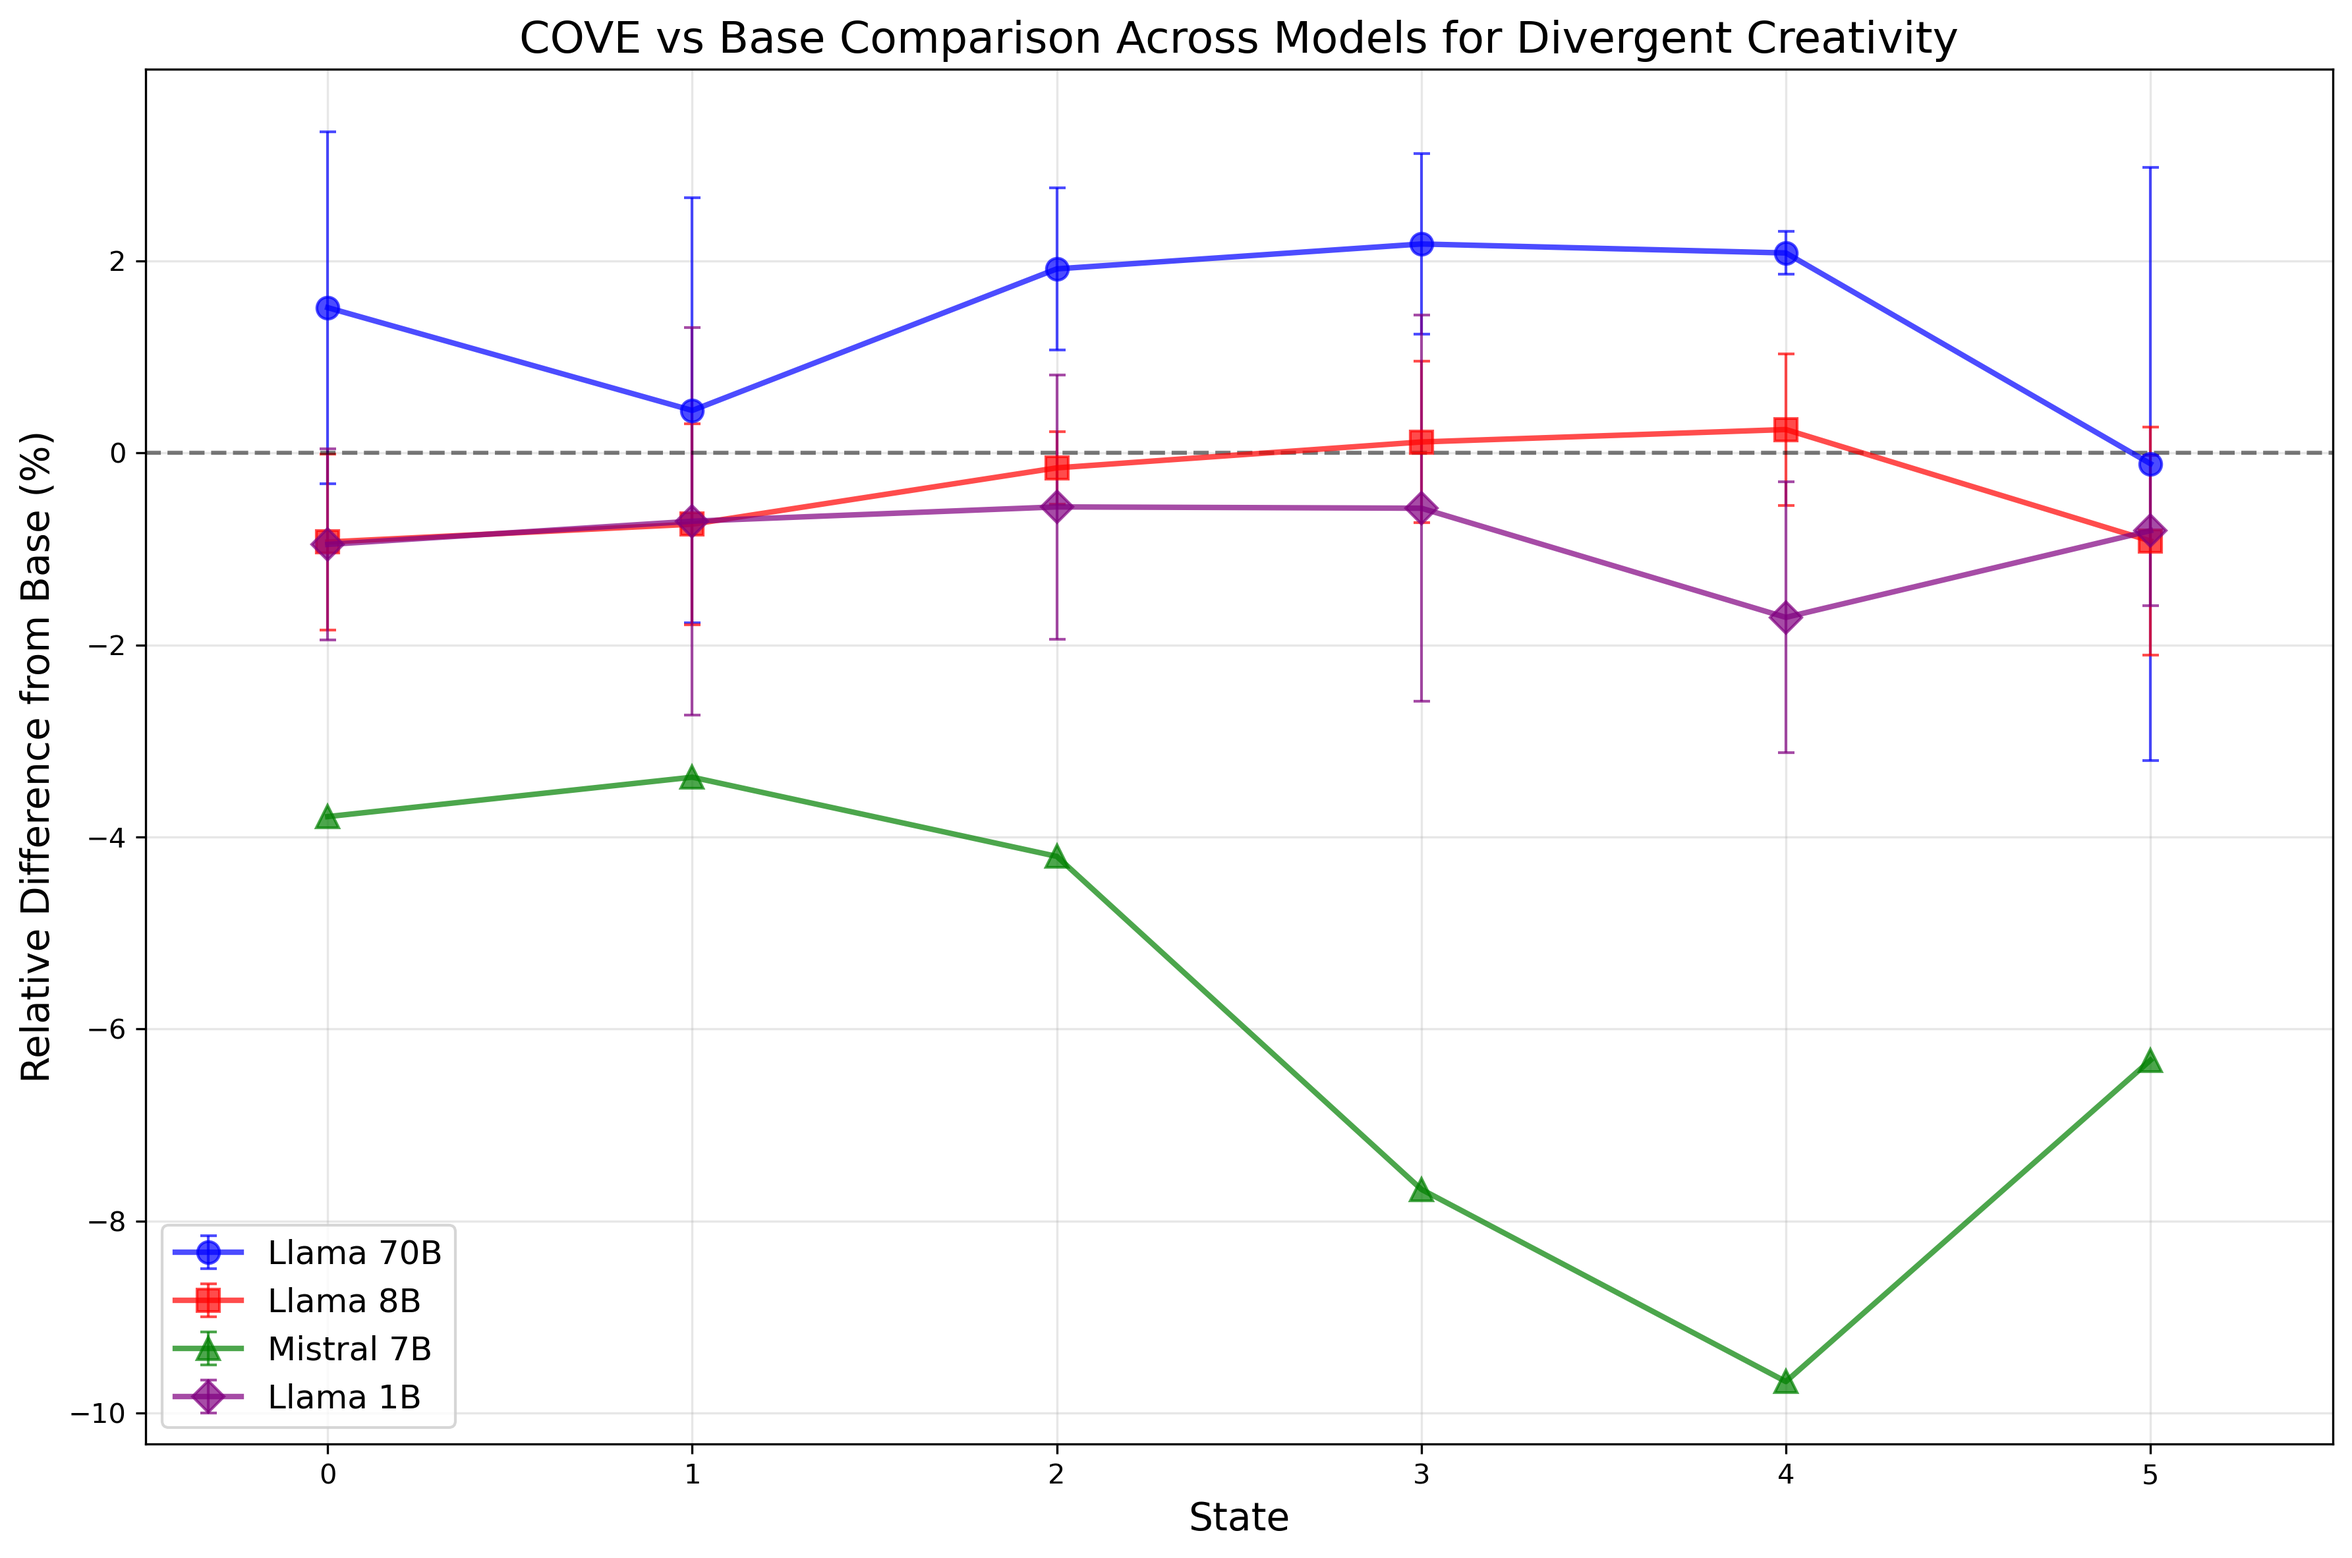
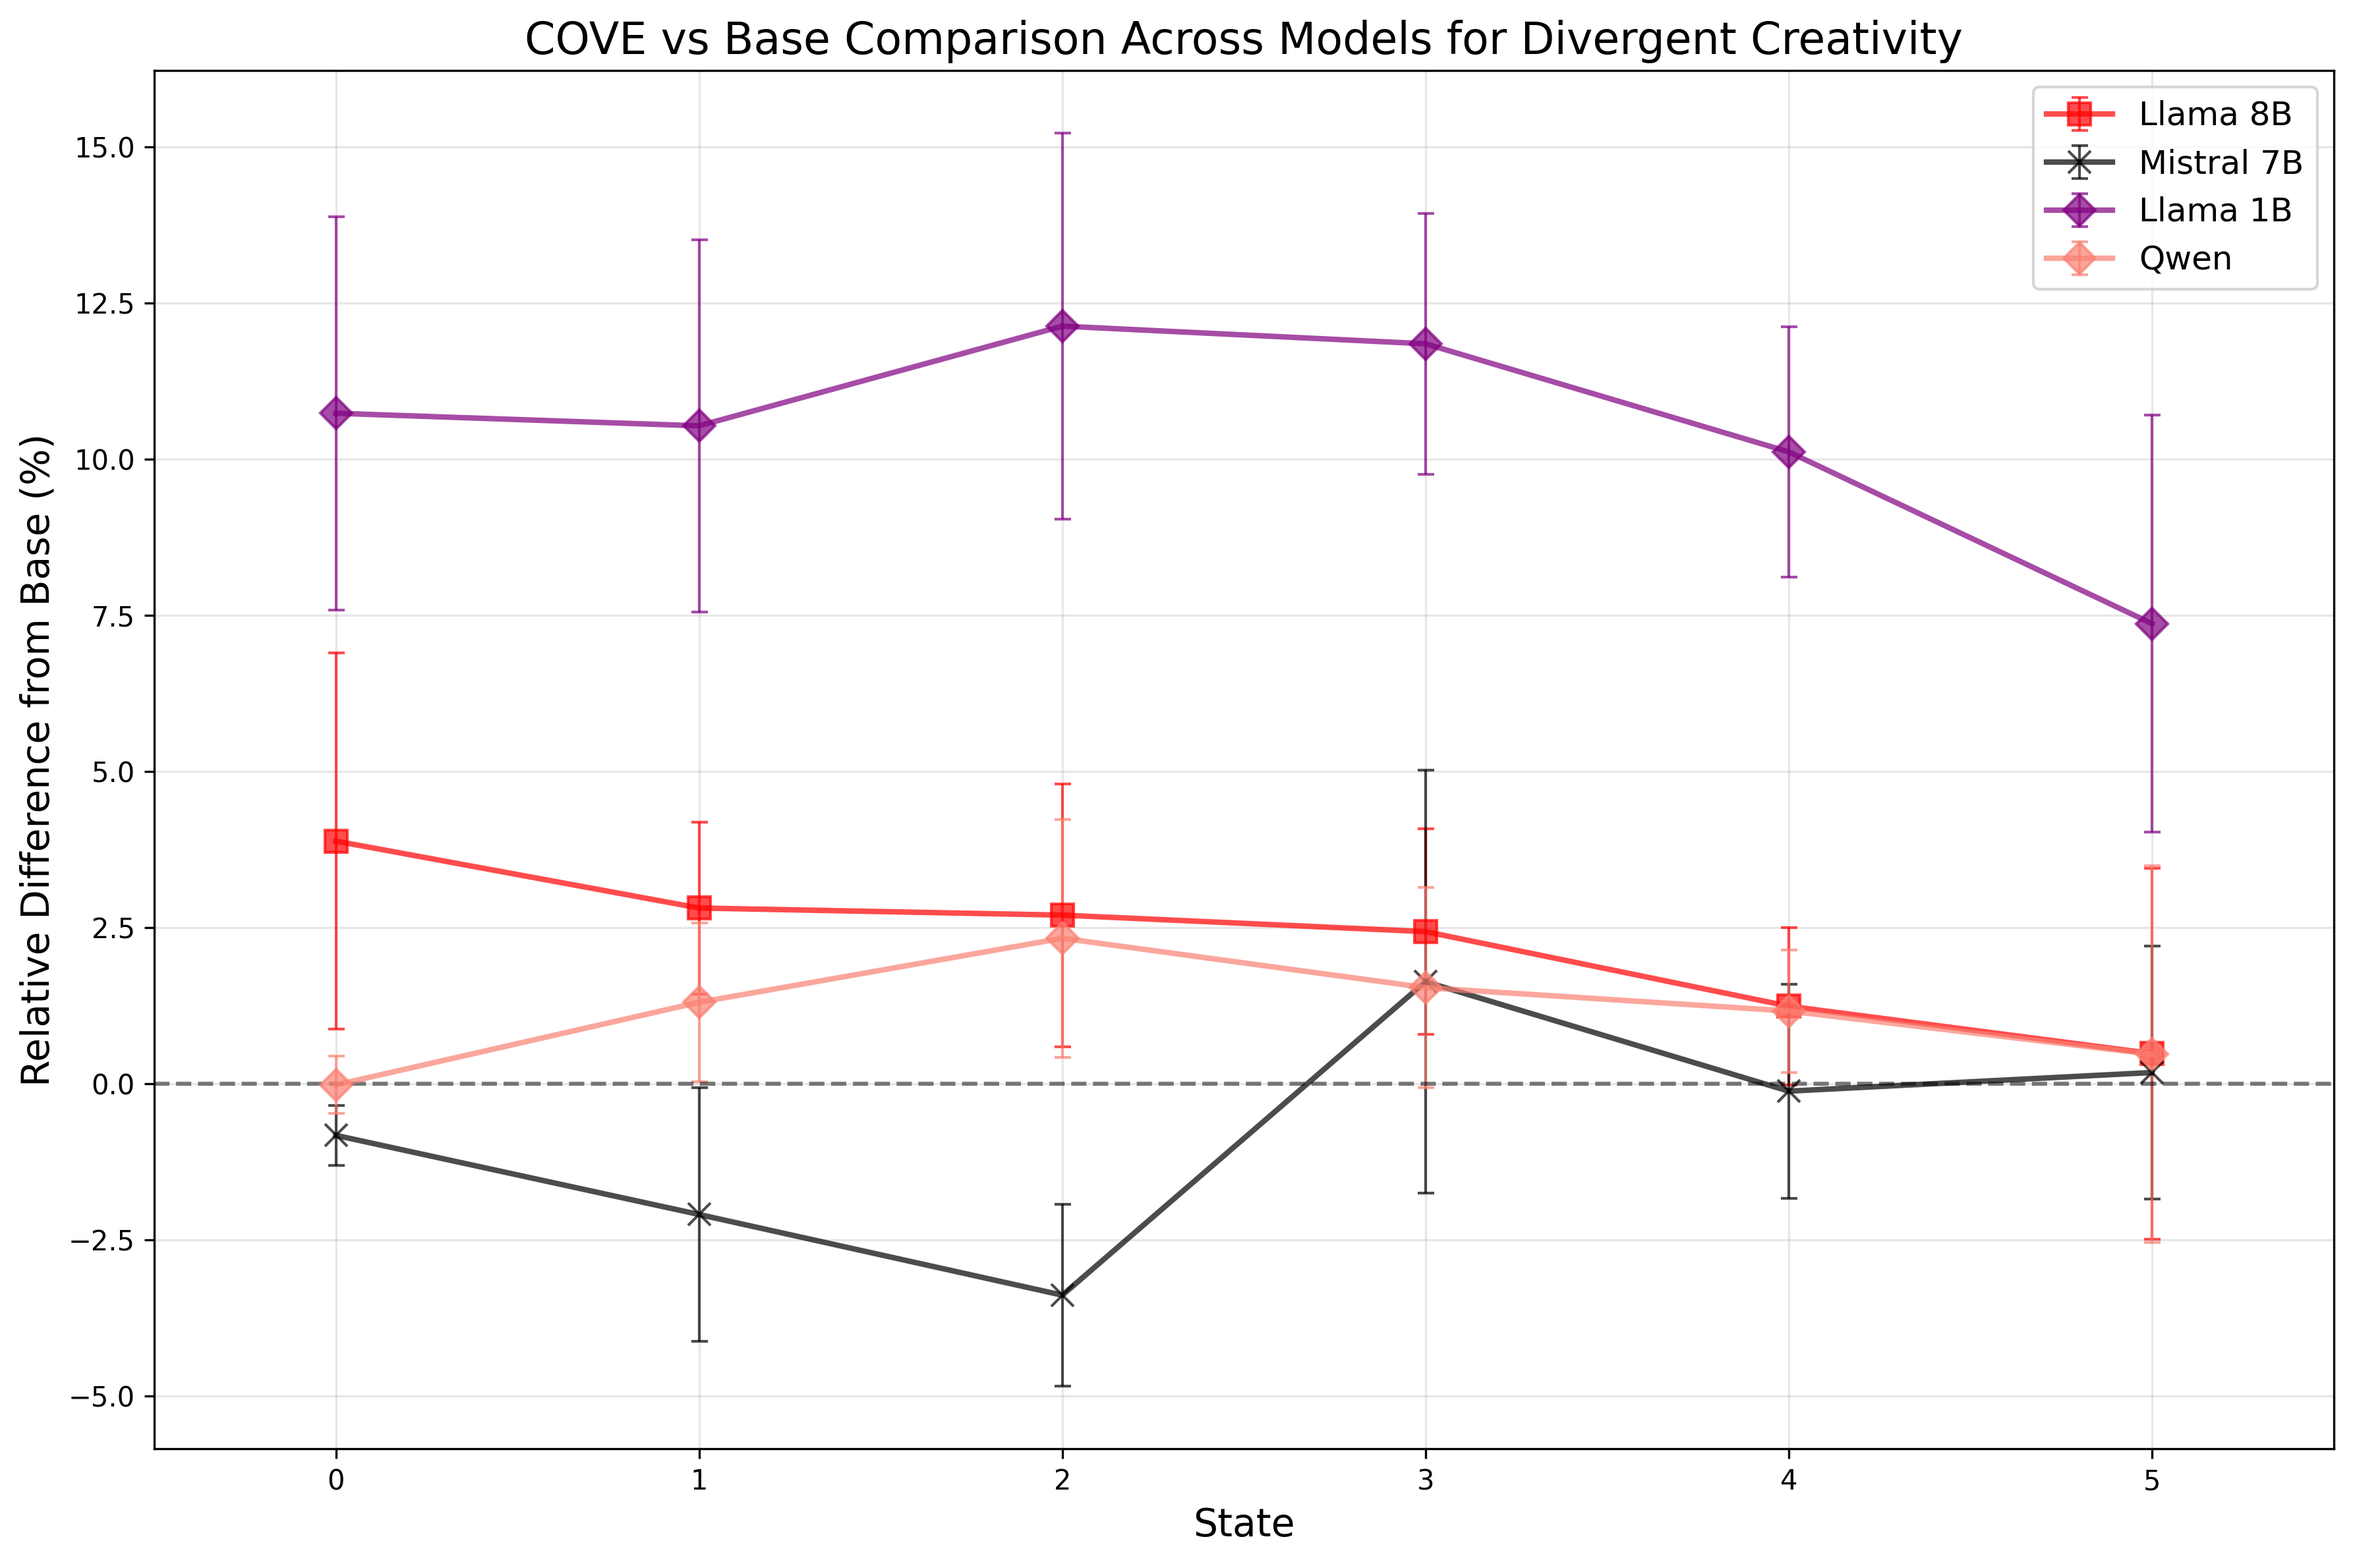
more changes

diff --git a/plots/compare_abs.py b/plots/compare_abs.py
@@ -8,7 +8,7 @@ import glob
 def load_summary_files(base_path):
     """Load all summary.json files from the given directory structure."""
     model_data = {}
-    model_folders = ['Llama70B', 'Llama8B', 'Mistral7B', 'Llama1B']
+    model_folders = ['Llama8B', 'Ali2']
     
     print(f"Looking for model folders in: {os.path.abspath(base_path)}")
     
@@ -179,10 +179,13 @@ def create_comparison_plot(processed_data, plot, method, output_file=None):
     model_styles = {
         'Llama70B': {'color': 'blue', 'marker': 'o', 'label': 'Llama 70B'},
         'Llama8B': {'color': 'red', 'marker': 's', 'label': 'Llama 8B'},
-        'Mistral7B': {'color': 'green', 'marker': '^', 'label': 'Mistral 7B'},
-        'Llama1B': {'color': 'purple', 'marker': 'D', 'label': 'Llama 1B'}
+        'Mistral7B': {'color': 'black', 'marker': 'x', 'label': 'Mistral 7B'},
+        'Llama1B': {'color': 'purple', 'marker': 'D', 'label': 'Llama 1B'},
+        'Llamacode': {'color': 'green', 'marker': '^', 'label': 'Llama-coder'},
+        'Ali2': {'color': 'navy', 'marker': 'o', 'label': 'Ali'},
+        'Qwen': {'color': 'salmon', 'marker': 'D', 'label': 'Qwen'}
     }
-    
+
     # Check if we have any data to plot
     has_data = False
     
@@ -254,10 +257,13 @@ def create_combined_plot(processed_data, plot, output_file=None):
     model_styles = {
         'Llama70B': {'color': 'blue', 'marker': 'o', 'label': 'Llama 70B'},
         'Llama8B': {'color': 'red', 'marker': 's', 'label': 'Llama 8B'},
-        'Mistral7B': {'color': 'green', 'marker': '^', 'label': 'Mistral 7B'},
-        'Llama1B': {'color': 'purple', 'marker': 'D', 'label': 'Llama 1B'}
+        'Mistral7B': {'color': 'black', 'marker': 'x', 'label': 'Mistral 7B'},
+        'Llama1B': {'color': 'purple', 'marker': 'D', 'label': 'Llama 1B'},
+        'Llamacode': {'color': 'green', 'marker': '^', 'label': 'Llama-coder'},
+        'Ali2': {'color': 'navy', 'marker': 'o', 'label': 'Ali-model'},
+        'Qwen': {'color': 'salmon', 'marker': 'D', 'label': 'Qwen'}
     }
-    
+
     # Define line styles for each method
     method_styles = {
         'base': {'linestyle': '-', 'alpha': 0.8},
@@ -322,8 +328,10 @@ def create_combined_plot(processed_data, plot, output_file=None):
 # Main execution
 if __name__ == "__main__":
     # Set the base path where your model folders are located
-    base_path = "datasets/CodeForce/neoresults"  # Adjust this to your actual path
+    base_path = "datasets/CodeForce/neoresults/non-greedy"  # Adjust this to your actual path
     plot = 'total_creativity'
+    folder = 'plots_absolute'
+    
     
     # Load all summary files
     print("Loading summary files...")
@@ -349,12 +357,12 @@ if __name__ == "__main__":
     print("\nCreating plots...")
     
     # Individual method plots
-    create_comparison_plot(processed_data, plot, 'base', f'plots_absolute/{plot}/base_absolute.png')
-    create_comparison_plot(processed_data, plot, 'cove', f'plots_absolute/{plot}/cove_absolute.png')
-    create_comparison_plot(processed_data, plot, 'dola', f'plots_absolute/{plot}/dola_absolute.png')
-    create_comparison_plot(processed_data, plot, 'rag', f'plots_absolute/{plot}/rag_absolute.png')
+    create_comparison_plot(processed_data, plot, 'base', f'plots/{folder}/{plot}/base_absolute.png')
+    create_comparison_plot(processed_data, plot, 'cove', f'plots/{folder}/{plot}/cove_absolute.png')
+    create_comparison_plot(processed_data, plot, 'dola', f'plots/{folder}/{plot}/dola_absolute.png')
+    create_comparison_plot(processed_data, plot, 'rag', f'plots/{folder}/{plot}/rag_absolute.png')
     
     # Combined plot
-    create_combined_plot(processed_data, plot, f'plots_absolute/{plot}/all_methods_combined.png')
+    create_combined_plot(processed_data, plot, f'plots/plots_ali/{plot}/all_methods_combined.png')
     
     print("\nScript completed!")

diff --git a/src/models/model.py b/src/models/model.py
@@ -159,40 +159,44 @@ class OpenAIModel:
     def __init__(self, 
                  model: str,
                  temperature: float = 1,
-                 max_tokens: int = 256,
+                 max_completion_tokens: int = 512,
                  top_p: float = 1,
                  n: int = 1,
-                 gpt_setting: str = None):
+                 gpt_setting: str = None,
+                 reasoning: dict = {'effort': 'minimal'}):
         self.model = model
         self.temperature = temperature
-        self.max_tokens = max_tokens
+        self.max_completion_tokens = max_completion_tokens
         self.top_p = top_p
         self.n = n
         self.gpt_setting = gpt_setting
         self.restart()
         self.client = OpenAI()
+        self.reasoning = reasoning
         
     @backoff.on_exception(backoff.expo, openai.OpenAIError)
     def chatcompletions_with_backoff(self, **kwargs):
-        return self.client.chat.completions.create(**kwargs)
+        return self.client.responses.create(**kwargs)
 
     @backoff.on_exception(backoff.expo, openai.OpenAIError)
     def completions_with_backoff(self, **kwargs):
-        return self.client.completions.create(**kwargs)
+        return self.client.chat.completions.create(**kwargs)
 
     def chatgpt(self) -> list:
         global completion_tokens, prompt_tokens
         outputs = []
         res = self.chatcompletions_with_backoff(model=self.model, 
-                                                messages=self.message, 
+                                                input=self.message, 
                                                 temperature=self.temperature, 
-                                                max_tokens=self.max_tokens, 
-                                                n=self.n,
-                                                top_p=self.top_p)
-        outputs.extend([choice.message.content for choice in res.choices])
+                                                max_output_tokens=self.max_completion_tokens, 
+                                                # n=self.n,
+                                                top_p=self.top_p,
+                                                reasoning=self.reasoning)
+        # outputs.extend([choice.message.content for choice in res.choices])
+        outputs.append(res.output_text)
         # log completion tokens
-        completion_tokens += res.usage.completion_tokens
-        prompt_tokens += res.usage.prompt_tokens
+        completion_tokens += res.usage.output_tokens
+        prompt_tokens += res.usage.input_tokens
         return outputs
 
     def completiongpt(self) -> list:
@@ -201,7 +205,7 @@ class OpenAIModel:
         res = self.completions_with_backoff(model=self.model, 
                                             messages=self.message, 
                                             temperature=self.temperature, 
-                                            max_tokens=self.max_tokens, 
+                                            max_completion_tokens=self.max_completion_tokens, 
                                             n=self.n, 
                                             top_p=self.top_p)
         outputs.extend([choice.text for choice in res.choices])
@@ -221,6 +225,8 @@ class OpenAIModel:
             cost = completion_tokens / 1000 * 0.002 + prompt_tokens / 1000 * 0.0015
         elif "davinci" in model:
             cost = completion_tokens / 1000 * 0.02 + prompt_tokens / 1000 * 0.02
+        elif "gpt-5-mini" in model:
+            cost = completion_tokens / 1000 * 0.002 + prompt_tokens / 1000 * 0.00025
         return {"completion_tokens": completion_tokens, "prompt_tokens": prompt_tokens, "cost": cost}
 
     def __call__(self, input: str) -> list:

diff --git a/plots/compare_hal.py b/plots/compare_hal.py
@@ -8,7 +8,7 @@ import glob
 def load_summary_files(base_path):
     """Load all summary.json files from the given directory structure."""
     model_data = {}
-    model_folders = ['Llama70B', 'Llama8B', 'Llama1B']
+    model_folders = ['Llama70B', 'Llama8B', 'Llama1B', 'Mistral7B', 'Ali2', 'Qwen']
     
     print(f"Looking for model folders in: {os.path.abspath(base_path)}")
     
@@ -202,8 +202,11 @@ def create_comparison_plot(processed_data, plot, method, output_file=None):
     model_styles = {
         'Llama70B': {'color': 'blue', 'marker': 'o', 'label': 'Llama 70B'},
         'Llama8B': {'color': 'red', 'marker': 's', 'label': 'Llama 8B'},
-        'Mistral7B': {'color': 'green', 'marker': '^', 'label': 'Mistral 7B'},
-        'Llama1B': {'color': 'purple', 'marker': 'D', 'label': 'Llama 1B'}  # Added Llama1B
+        'Mistral7B': {'color': 'black', 'marker': 'x', 'label': 'Mistral 7B'},
+        'Llama1B': {'color': 'purple', 'marker': 'D', 'label': 'Llama 1B'},
+        'Llamacode': {'color': 'green', 'marker': '^', 'label': 'Llama-coder'},
+        'Ali2': {'color': 'navy', 'marker': 'o', 'label': 'Ali-model'},
+        'Qwen': {'color': 'salmon', 'marker': 'D', 'label': 'Qwen'}
     }
     
     # Check if we have any data to plot
@@ -271,8 +274,8 @@ def create_comparison_plot(processed_data, plot, method, output_file=None):
 # Main execution
 if __name__ == "__main__":
     # Set the base path where your model folders are located
-    base_path = "datasets/CodeForce/neoresults"  # Adjust this to your actual path
-    plot = 'instruction_hallucination'
+    base_path = "datasets/CodeForce/neoresults/non-greedy"  # Adjust this to your actual path
+    plot = 'total_creativity'
     
     # Load all summary files
     print("Loading summary files...")
@@ -298,12 +301,12 @@ if __name__ == "__main__":
     print("\nCreating plots...")
     
     # CoVe plot
-    create_comparison_plot(processed_data, plot, 'cove', f'plots/plots_llamas/{plot}/cove_comparison.png')
+    create_comparison_plot(processed_data, plot, 'cove', f'plots/all_plots/{plot}/cove_comparison.png')
     
     # DoLa plot
-    create_comparison_plot(processed_data, plot, 'dola', f'plots/plots_llamas/{plot}/dola_comparison.png')
+    create_comparison_plot(processed_data, plot, 'dola', f'plots/all_plots/{plot}/dola_comparison.png')
     
     # RAG plot
-    create_comparison_plot(processed_data, plot, 'rag', f'plots/plots_llamas/{plot}/rag_comparison.png')
+    create_comparison_plot(processed_data, plot, 'rag', f'plots/all_plots/{plot}/rag_comparison.png')
     
     print("\nScript completed!")

diff --git a/src/utils/configs.py b/src/utils/configs.py
@@ -52,6 +52,7 @@ from dotenv import load_dotenv
 load_dotenv()
 
 __MODEL_TO_CLASS__ = {
+    "gpt-5-mini": OpenAIModel,
     "gpt-4-1106-preview": OpenAIModel,
     "gpt-4": OpenAIModel,
     "gpt-3.5-turbo": OpenAIModel,
@@ -300,9 +301,9 @@ def technique_detection(human_solution_path: str,
     else:
         human_tech = {}
 
-    code_reviewer = OpenAIModel(model="gpt-4-1106-preview", gpt_setting=CODE_REVIEWER)
+    code_reviewer = OpenAIModel(model="gpt-5-mini", gpt_setting=CODE_REVIEWER)
     code_evaluator = CodeForceCorrectnessEvaluator(inference_result_path, test_case_path=None) # only used for parsing codes
-    code_generator = APIModelParallelThreadDPInference("gpt-4-1106-preview", dp_rounds=0) # only used for parsing techniques
+    code_generator = APIModelParallelThreadDPInference("gpt-5-mini", dp_rounds=0) # only used for parsing techniques
     
     def _detect_techniques(code: Text) -> List[Text]:
         while True:
@@ -357,7 +358,7 @@ def technique_detection(human_solution_path: str,
             save_json(inference_result, inference_result_path)
 
         # monitor OpenAI API usage
-        print(code_reviewer.gpt_usage(model = "gpt-4-1106-preview"))
+        print(code_reviewer.gpt_usage(model = "gpt-5-mini"))
 
 def calculate_creativity(inference_result_path: str,
                          human_solution_path: str,
